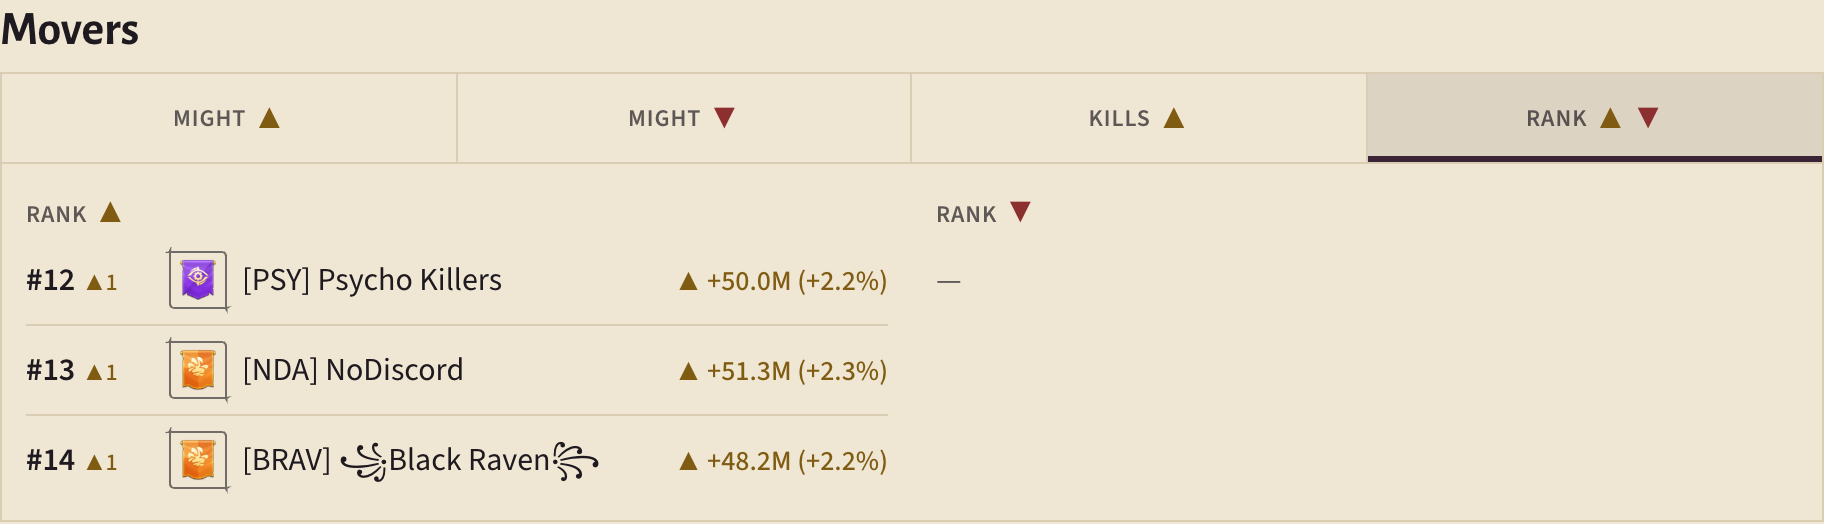
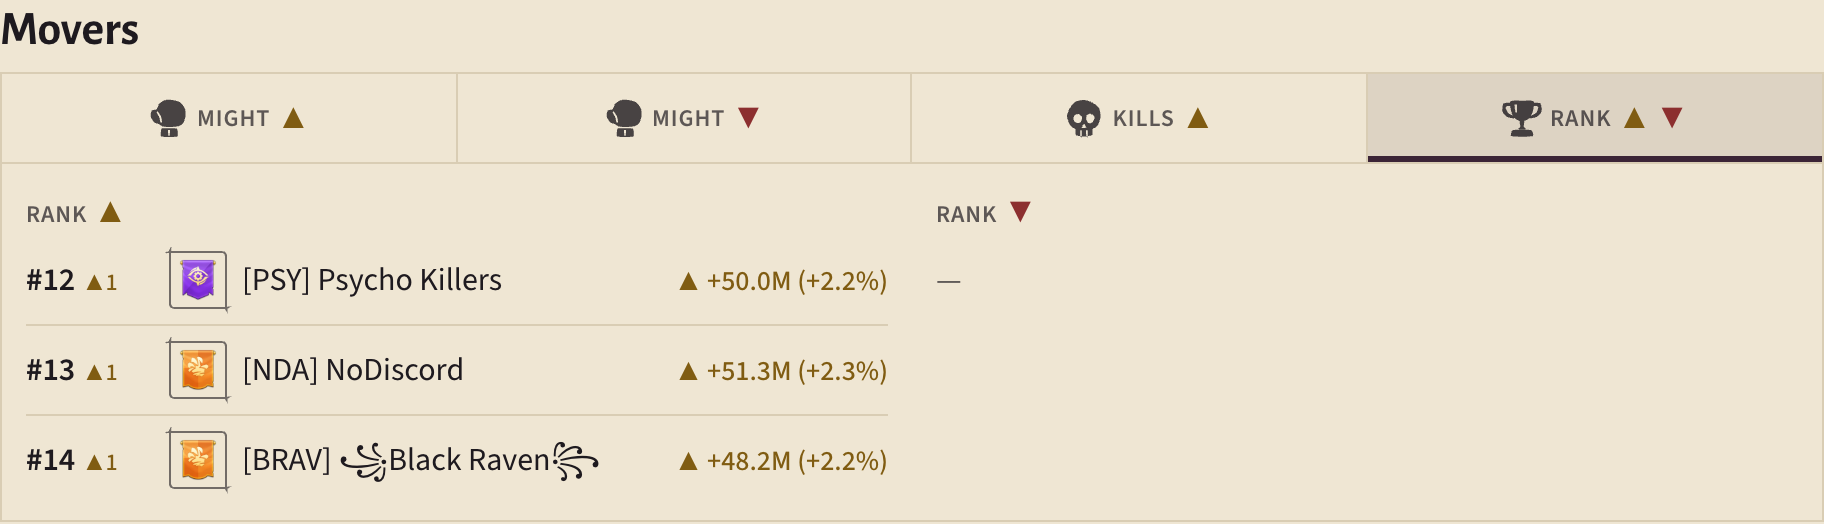
feat(movers): drawn marks on the tabs — boxing glove, skull, trophy (D54)

diff --git a/lib/brand/components/MoverMarks.tsx b/lib/brand/components/MoverMarks.tsx
@@ -1,0 +1,30 @@
+// The Movers tabs' marks (DESIGN.md `movers`, D54): a boxing glove for Might, a skull for Kills, a trophy
+// for Rank. The 16 px filled cut of the brand's hand, drawn by `icon_might`, `icon_kills` and `icon_rank`
+// in docs/brand/drawing/examples/ornaments.py. Colour comes from the parent's text colour.
+
+/** Might: a boxing glove. */
+export function MightMark({ className = "" }: { className?: string }) {
+  return (
+    <svg viewBox="0 0 16 16" className={className} fill="currentColor" aria-hidden="true">
+      <path d="M8.8.7c.9.1 3 .4 3.8.9c.8.5 1.9 1.9 2.2 2.8c.3.9.3 2.5.1 3.4c-.2.9-.7 2.3-1.3 2.8c-.6.5-1.6.8-2.6.9c-1 .1-3.7.1-4.6 0c-.9-.1-1.2-.6-1.8-.9c-.6-.3-1.7-.5-2.2-1c-.5-.5-1.2-1.5-1.3-2.2c-.1-.7.1-2 .4-2.4c.3-.4 1.5-.1 1.9-.4c.4-.3.5-1.5.9-2c.4-.5 1.3-1.2 1.9-1.5c.6-.3 1.7-.5 2.6-.4zm-5.4 5.1c.1.2.9 1.4 1.1 1.8c.2.4.4 2 .5 2.2c.1.2.6 0 .6-.2c0-.2-.2-1.8-.4-2.2c-.2-.4-1.1-1.8-1.3-2c-.2-.2-.6.2-.5.4zm2 6.5c.3-.3 2.5-.2 3-.2c.5 0 2.9-.1 3.2.2c.3.3.5 2.7.2 3c-.3.3-2.8.3-3.4.3c-.5 0-2.9 0-3.2-.3c-.2-.3-.1-2.7.2-3zm2.7 2.7c0 .1.6.1.6 0c0-.1.1-2 .1-2.1c0-.1-.8-.1-.8 0c0 .1.1 2 .1 2.1z" />
+    </svg>
+  );
+}
+
+/** Kills: a skull. */
+export function KillsMark({ className = "" }: { className?: string }) {
+  return (
+    <svg viewBox="0 0 16 16" className={className} fill="currentColor" aria-hidden="true">
+      <path d="M2.2 10.4c-.3-.6-1-2.4-1-3.2c0-.8.7-2.4 1.1-3.1c.5-.8 1.5-2.2 2.2-2.6c.8-.4 2.6-.7 3.5-.7c.9 0 2.5.6 3.2 1c.8.4 2.3 1.4 2.7 2.1c.5.8.7 2.4.7 3.3c0 .9-.5 2.6-.8 3.2c-.3.6-.9 1.1-1.2 1.4c-.3.3-1 .2-1.2.6c-.2.4.3 2-.2 2.4c-.5.4-2.3.6-3.2.6c-.9 0-2.7-.2-3.2-.6c-.5-.4 0-2-.2-2.4c-.2-.4-.9-.3-1.2-.6c-.3-.3-.9-.8-1.2-1.4zm4.8-3.2c-.3-.2-.9-.8-1.4-.8c-.4 0-1.1.2-1.4.6c-.3.4-.6 1.2-.4 1.7c.1.5.7 1 1.1 1.2c.5.2 1.2.2 1.6-.1c.4-.3.6-1.2.7-1.6c.1-.4 0-.7-.2-1zm5 0c-.3-.3-.9-.8-1.4-.9c-.4 0-1.2.2-1.5.6c-.2.4-.3 1.3-.2 1.8c.1.5.6 1.2 1 1.4c.4.1 1.2-.1 1.5-.4c.4-.3.7-1.1.8-1.5c.1-.4 0-.6-.2-1zm-4.9 4.7c.1.1 1.7.1 1.8 0c.1-.1-.8-1.7-.9-1.7c-.1 0-1 1.6-.9 1.7zm-.6 3.7c0 .1.6.1.6 0c0-.1.1-2.5 0-2.6c0-.1-.6-.1-.6 0c-.1.1 0 2.5 0 2.6zm2.4 0c0 .1.6.1.6 0c0-.1.1-2.5 0-2.6c0-.1-.6-.1-.7 0c0 .1.1 2.5.1 2.6z" />
+    </svg>
+  );
+}
+
+/** Rank: a trophy cup. */
+export function RankMark({ className = "" }: { className?: string }) {
+  return (
+    <svg viewBox="0 0 16 16" className={className} fill="currentColor" aria-hidden="true">
+      <path d="M3.4 1.4c.6-.6 3.4-.3 4.6-.3c1.2 0 4-.3 4.6.3c.6.6-.1 3.1-.3 4c-.2.9-.9 2.3-1.5 2.8c-.6.5-2.1 1.2-2.8 1.2c-.7 0-2.2-.7-2.8-1.2c-.6-.5-1.3-1.9-1.5-2.8c-.2-.9-.9-3.4-.3-4zm.3 1.9c-.4.1-1.5-.4-1.9.1c-.5.4-.3.8 0 1.5c.2.7.5 1.1 1.2 1.5c.6.4 1.7.8 2.1 1l-.2.8c-.4-.1-2-.2-2.7-.6c-.6-.4-1.7-1.4-2-2.1c-.2-.7 0-2.8.4-3.3c.5-.4 2.5-.3 2.9-.3zm8.8-1.4c.4 0 2.4-.1 2.9.3c.4.5.6 2.6.4 3.3c-.3.7-1.4 1.7-2 2.1c-.7.4-2.3.5-2.7.6l-.2-.8c.4-.2 1.5-.6 2.1-1c.7-.4 1-.8 1.2-1.5c.3-.7.5-1.1 0-1.5c-.4-.5-1.5 0-1.9-.1zm-5.4 7.1c.2-.3 1.6-.3 1.8 0c.2.3-.3 2.3-.2 2.6c.1.3 1.1.7.9.8c-.2.1-3 .1-3.2 0c-.2-.1.8-.5.9-.8c.1-.3-.4-2.3-.2-2.6zm-2.9 3.9c.4-.2 3.2-.3 3.8-.3c.6 0 3.4.1 3.8.3c.4.2.9 2.1.6 2.3c-.3.2-3.7.3-4.4.3c-.7 0-4.1-.1-4.4-.3c-.3-.2.2-2.1.6-2.3zm1.2-7.1c.1.2.6 0 .6-.2c0-.3.1-2.6 0-2.8c-.1-.2-1-.3-1 0c0 .2.3 2.8.4 3z" />
+    </svg>
+  );
+}

diff --git a/app/_ui/Movers.tsx b/app/_ui/Movers.tsx
@@ -8,6 +8,7 @@
 import Link from "next/link";
 import { useId, useRef, useState, type KeyboardEvent } from "react";
 
+import { KillsMark, MightMark, RankMark } from "@/lib/brand/components/MoverMarks";
 import type { Dictionary } from "@/lib/copy";
 
 import { useCopy } from "./LocaleProvider";
@@ -41,12 +42,27 @@ function Row({ m }: { m: MoverItem }) {
   );
 }
 
-/** `MIGHT ▲`: the word as a label, the arrow in yarn or seal, the direction's word read out. */
-function Head({ word, up, copy }: { word: string; up: boolean | null; copy: Dictionary }) {
+const MARKS = { might: MightMark, kills: KillsMark, rank: RankMark };
+
+/** `MIGHT ▲`: the word as a label, the arrow in yarn or seal, the direction's word read out. With
+ * `mark`, the tab's drawing leads and the word shows from 640 px only (it is still read out below). */
+function Head({
+  word,
+  up,
+  copy,
+  mark,
+}: {
+  word: string;
+  up: boolean | null;
+  copy: Dictionary;
+  mark?: keyof typeof MARKS;
+}) {
   const arrows = up === null ? [true, false] : [up];
+  const Mark = mark && MARKS[mark];
   return (
     <>
-      <span className={LABEL}>{word}</span>
+      {Mark && <Mark className="size-5 shrink-0 text-ink/80" />}
+      <span className={`${LABEL} ${Mark ? "sr-only sm:not-sr-only" : ""}`}>{word}</span>
       {arrows.map((a) => (
         <span key={String(a)}>
           <span aria-hidden="true" className={a ? "text-yarn" : "text-seal"}>
@@ -147,7 +163,7 @@ export function Movers({ scopes }: { scopes: MoverScope[] }) {
               onKeyDown={(e) => onKey(e, i)}
               className="inline-flex min-h-11 flex-wrap items-center justify-center gap-x-1 border-r border-rule px-1 text-center last:border-r-0 aria-selected:bg-plum/10 aria-selected:shadow-[inset_0_-3px_0_var(--color-plum)]"
             >
-              <Head word={copy.ledger[t.word]} up={t.up} copy={copy} />
+              <Head word={copy.ledger[t.word]} up={t.up} copy={copy} mark={t.word} />
             </button>
           ))}
         </div>
@@ -157,6 +173,11 @@ export function Movers({ scopes }: { scopes: MoverScope[] }) {
           aria-labelledby={`${id}-${current?.key}`}
           className="grid gap-x-6 px-3 py-2 sm:grid-cols-2"
         >
+          {current && current.up !== null && (
+            <p className="flex items-baseline gap-1 pt-1 sm:hidden">
+              <Head word={copy.ledger[current.word]} up={current.up} copy={copy} />
+            </p>
+          )}
           {sections.map((s) => (
             <MoverList key={s.key} title={s.title} up={s.up} items={s.items} copy={copy} />
           ))}

diff --git a/docs/brand/drawing/examples/ornaments.py b/docs/brand/drawing/examples/ornaments.py
@@ -199,6 +199,41 @@ def icon_overseer():
         stroke(p, [(x0, 5.0), ((x0 + x1) / 2, 3.6), (x1, y1)], .38, a=.2, b=.45, e=.12)
     return svg("0 0 16 16", el(p))
 
+# The Movers tabs (DESIGN.md movers): the same 16 px filled cut, one per figure.
+def icon_might():
+    """Might: a boxing glove, the round mitt over a thumb at the left, a cuff below with a lace."""
+    p = Path()
+    blob(p, [(8.8, 0.7), (12.6, 1.6), (14.8, 4.4), (14.9, 7.8), (13.6, 10.6), (11.0, 11.5), (6.4, 11.5),
+             (4.6, 10.6), (2.4, 9.6), (1.1, 7.4), (1.5, 5.0), (3.4, 4.6), (4.3, 2.6), (6.2, 1.1)], k=.85)
+    hole(p, [(3.9, 5.4), (5.2, 7.4), (5.6, 9.6), (5.0, 9.8), (4.5, 7.6), (3.4, 5.8)], k=.6)
+    blob(p, [(5.4, 12.3), (8.4, 12.1), (11.6, 12.3), (11.8, 15.3), (8.4, 15.6), (5.2, 15.3)], k=.5)
+    hole(p, [(8.0, 12.9), (8.8, 12.9), (8.7, 15.0), (8.1, 15.0)], k=.4)
+    return svg("0 0 16 16", el(p))
+
+def icon_kills():
+    """Kills: a skull, round cranium over a narrower jaw, two eyes, a nose and two tooth gaps."""
+    p = Path()
+    blob(p, arc(8, 7.2, 6.7, 6.4, 150, 390, 9, wob=[0, .02, -.02, .03, 0, -.03, .02, -.01, 0])
+         + [(12.6, 11.8), (11.4, 12.4), (11.2, 14.8), (8, 15.4), (4.8, 14.8), (4.6, 12.4), (3.4, 11.8)], k=.8)
+    hole(p, arc(5.5, 8.2, 1.7, 1.9, 0, 330, 7, wob=[0, .05, -.04, .06, 0, -.05, 0]))
+    hole(p, arc(10.5, 8.2, 1.7, 1.9, 0, 330, 7, wob=[0, -.04, .05, -.03, .04, 0, 0]))
+    hole(p, [(8, 10.2), (8.9, 11.9), (7.1, 11.9)], k=.4)
+    for x in (6.8, 9.2):
+        hole(p, [(x - .35, 13.0), (x + .35, 13.0), (x + .3, 15.6), (x - .3, 15.6)], k=.3)
+    return svg("0 0 16 16", el(p))
+
+def icon_rank():
+    """Rank: a trophy cup with two handles, a short stem and a stepped base."""
+    p = Path()
+    blob(p, [(3.4, 1.4), (8, 1.1), (12.6, 1.4), (12.3, 5.4), (10.8, 8.2), (8, 9.4), (5.2, 8.2), (3.7, 5.4)], k=.8)
+    for s in (1, -1):
+        X = lambda x: 8 + (x - 8) * s
+        stroke(p, [(X(3.6), 2.6), (X(1.2), 2.8), (X(1.0), 5.2), (X(2.6), 7.0), (X(5.0), 7.8)], ws=[.75, .8, .8, .7, .45])
+    blob(p, [(7.1, 9.0), (8.9, 9.0), (8.7, 11.6), (9.6, 12.4), (6.4, 12.4), (7.3, 11.6)], k=.6)
+    blob(p, [(4.2, 12.9), (8, 12.6), (11.8, 12.9), (12.4, 15.2), (8, 15.5), (3.6, 15.2)], k=.5)
+    hole(p, [(5.0, 2.8), (6.0, 2.8), (6.0, 5.6), (5.4, 5.8)], k=.5)
+    return svg("0 0 16 16", el(p))
+
 def icon_live():
     """The /admin live mark: grandma's chamberstick, lit (small cut, 16-20 px). The flame and its glow
     ticks are two paths so CSS can sway the flame (pivot at the wick, 8 7.4) and flicker the ticks while a run

diff --git a/docs/brand/drawing/build.py b/docs/brand/drawing/build.py
@@ -41,6 +41,9 @@ DRAWINGS = {
     "icon-recruiter": ornaments.icon_recruiter,
     "icon-militarist": ornaments.icon_militarist,
     "icon-overseer": ornaments.icon_overseer,
+    "icon-might": ornaments.icon_might,
+    "icon-kills": ornaments.icon_kills,
+    "icon-rank": ornaments.icon_rank,
     "icon-live": ornaments.icon_live,
     "icon-done": ornaments.icon_done,
     "icon-partial": ornaments.icon_partial,

diff --git a/docs/DESIGN.md b/docs/DESIGN.md
@@ -188,7 +188,7 @@ Members of a game alliance on server 325 — Russia, Spain, Brazil, the United S
 - **Sentences only in the margins.** The grandma voice lives in empty states, error pages, section titles and the admin area. Status is chips, not prose: `Last updated at Oct 31, 14:01 server` and `Next update at …` (owner, 2026-11-05: these replace the earlier `Before ✓ 12:01` · `After ✓ 16:01` chips). A public page has no paragraph.
 - **`/brand` is exempt from the paragraph rule** (07c N7, #54): it is the brand guidelines for whoever builds the site, `noindex` and linked from nowhere, so its rules and "when to use" lines are sentences. Its strings still live in `lib/copy-brand.ts`, and its React keys never come from copy.
 - **Dates and numbers through `Intl`** with the request's `Accept-Language`: `16:01` not `4:01 PM`, `3,94 bi` for pt-BR, `3.94B` for en (the compact suffix is the locale's own). Every public time is server time and says so (`16:01 server time`) unless the viewer chose their own zone in the settings gear; then it reads `16:01 your time`, and a table corner reads `Your time` (D38). No UTC twin (owner, 2026-11-05). Dates follow the locale unless the viewer chose an order (`31 Oct`, `Oct 31`, `31/10`, `31.10`, `2026-10-31`); the month name stays in the locale's language. /admin and Discord always use server time. Relative times (`4 days ago`) are secondary.
-- **Universal symbols where they are truly universal**: ▲ ▼ for change, an outlined dot for stale, a magnifier for search, ✓ ✗ for done/failed. No icons that need a culture to read (no thumbs, no wink, no skull for kills — "Kills" is already the game's word).
+- **Universal symbols where they are truly universal**: ▲ ▼ for change, an outlined dot for stale, a magnifier for search, ✓ ✗ for done/failed. No icons that need a culture to read (no thumbs, no wink, no skull for kills — "Kills" is already the game's word). One exception (owner, 2026-11-06, D54): the Movers tabs, four to a 360 px row, lead with a drawn mark — boxing glove for Might, skull for Kills, trophy for Rank — and show the word beside it from 640 px; on a phone the open tab's word heads its panel, and every tab's word is read out.
 - **Every string in `lib/copy.ts`**, none in components, so translation later is a file, not a refactor. Keys are stable identifiers; the value is the English text.
 - **The ledger is for the whole server, not for OGs.** Other alliances in the top 10 will use it, so nothing is pinned: order is strictly by rank, and rank numbers (`#1 … #20`) are shown because they are language-free. A viewer may pick _their_ alliance once (tap the tag → "This is my alliance"); it is highlighted and gets a "jump to" control, remembered in `localStorage` for that browser only — a per-viewer convenience, never server state, and the page is correct without it.
 
@@ -314,7 +314,7 @@ The whole list. Anything else is a composition of these; a new one needs a line 
 - **`member-filter`** — the alliance page's member controls (`app/_ui/MembersExplorer.tsx`, rules in `app/_ui/member-views.ts`; Session 7f): a name search; sort chips `Might · ± Might · Kills · ± Kills · Level · A–Z` (tap a chip to sort by it, highest first; tap it again to flip; the active chip is plum-filled with `↓`/`↑`; one scrolling row below 640 px); one might range with two thumbs whose stops are the roster's own values (`.range-pair` in `app/globals.css`), its span shown above it; and a framed `✕` chip per active filter that clears it, plus "Clear all". The list shows the first 20 members in the current order and a "Show all (n)" button. The count line reads `Members 97 / 100`: members in the alliance now over the capacity the API reports (`alliance_snapshots.capacity`; without one, only the count), plus ` · 12 shown` only while a name or might filter is on. While only one roster exists (the After has not run, or failed) the list is that roster: no Joined / Left, no change line under the figures, no `±` sort chips, rank without a movement mark (`StatMetric.noChange`, `Rank` without `move`).
 - **`breadcrumbs`** — alliance and player pages only: `Ledger · Sat, Oct 31 › [TAG] Name › Player` (`app/_ui/Breadcrumbs.tsx`); each crumb ≥ 44 px tall.
 - **`leadership`** — the alliance page's Leadership section (`app/_ui/Leadership.tsx`, owner 2026-11-05), between the summary band and the member list: the R5 leader first, then each R4 officer that carries a title (by Might, highest first), as cards in two centered rows: the leader on top, the officers below. One column on a phone; from 640 px the leader card is centered on its own row (one officer wide) and the officers sit 2×2 below; from 1024 px the leader card (a third of the row) is centered on top and all officers share one row below. Fewer than four officers are centered in their row; with no leader only the officer row shows; a second R5 sits beside the leader on the top row. The DOM order is the reading order (leader, then officers). Might, Kills and Level take equal thirds of the card and wrap to a second line instead of shrinking when a card is too narrow for them. A card is one link to the player page (≥ 44 px): photo, name, the role (`Leader`, or the title exactly as the game gives it, read from `rank_label` after `R4 · `), then Might, Kills and Level for the event (the After's, or the Before's for someone who left, who also carries the seal `− Left`). R4s without a title are not listed. With no R5 and no titled R4 on record (old rows, internal source) the section is omitted. The member list below is unchanged: same order, ranks and `n / capacity`. Ranks come from `alliance_snapshots.raw_json` through `lib/queries/leadership.ts`, which selects only uid, `rank_code`, `rank_label`.
-- **`movers`** — the event's biggest gains and losses (`app/_ui/Movers.tsx`, lists from `app/_ui/mover-lists.ts`, ranked by `compute.topMovers`; issue #70, D53). One framed card titled "Movers": a row of segmented tabs, `Might ▲`, `Might ▼`, `Kills ▲` and `Rank ▲▼` (the game's word, the arrow in yarn or seal, the direction's word read out; 44 px, arrow keys move between them; a long word wraps inside its tab), then the active tab's lists. The Rank tab (alliances only, so not on the alliance page) lists the top 3 climbers and fallers by ledger rank by might, Before → After (`compute.topRankMovers`): most places moved first, then the better current rank. Each line is a 44 px link: for an alliance its `rank` (`#4 ▼3`, the ledger rank by might after the event and its move, `#—` / `—` when unknown, as on the comparison table), for a member its place in the list (`#2`); the alliance badge (alliances only), the name (`[TAG] Name`, or a member's name with their alliance tag after it in ink/70), and the change with arrow and percent, which wraps under the name when the line is too narrow. Main page: under the ledger, alliances (top 3) and members (top 5, across every tracked alliance) side by side from 640 px, stacked below. Alliance page: between `leadership` and the member list, that alliance's members only (top 5), no sub-heading. A falling alliance total whose members left carries the `member-mark`. An empty list reads `—`: nobody moved that way, or a side is missing. Ties share a rank. No sentences, no chart.
+- **`movers`** — the event's biggest gains and losses (`app/_ui/Movers.tsx`, lists from `app/_ui/mover-lists.ts`, ranked by `compute.topMovers`; issue #70, D53). One framed card titled "Movers": a row of segmented tabs, `Might ▲`, `Might ▼`, `Kills ▲` and `Rank ▲▼`: each leads with its drawn mark (`lib/brand/components/MoverMarks.tsx`: boxing glove, skull, trophy; 16 px filled cut, ink/80) and the arrow in yarn or seal; the game's word shows beside the mark from 640 px and is read out below it, and on a phone the open tab's `WORD ▲` heads its panel (D54); 44 px, arrow keys move between them, then the active tab's lists. The Rank tab (alliances only, so not on the alliance page) lists the top 3 climbers and fallers by ledger rank by might, Before → After (`compute.topRankMovers`): most places moved first, then the better current rank. Each line is a 44 px link: for an alliance its `rank` (`#4 ▼3`, the ledger rank by might after the event and its move, `#—` / `—` when unknown, as on the comparison table), for a member its place in the list (`#2`); the alliance badge (alliances only), the name (`[TAG] Name`, or a member's name with their alliance tag after it in ink/70), and the change with arrow and percent, which wraps under the name when the line is too narrow. Main page: under the ledger, alliances (top 3) and members (top 5, across every tracked alliance) side by side from 640 px, stacked below. Alliance page: between `leadership` and the member list, that alliance's members only (top 5), no sub-heading. A falling alliance total whose members left carries the `member-mark`. An empty list reads `—`: nobody moved that way, or a side is missing. Ties share a rank. No sentences, no chart.
 - **`role-mark`** — alliance roles as one drawn mark in a tone (`lib/brand/components/RoleMark.tsx`; drawings `icon_crown`, `icon_officer`, `icon_diplomat`, `icon_recruiter`, `icon_militarist`, `icon_overseer` in `docs/brand/drawing/examples/ornaments.py`, 16 px filled cuts): the **crown** for the R5 leader in plum; a titled R4 officer in sage (the neutral tone) gets the drawing of the title's slot, picked from the title text with case and spacing ignored (DECISIONS D50): **dove** for Diplomat, **horn** for Recruiter, **crossed swords** for Militarist or God of War, **eye** for Overseer or Goddess; any other title gets the **stitch star**. All officers share the one sage tone: the shape says which title, the colour only says "officer". In the member list the mark follows the name, the row takes the same colour as a pale tint (`bg-plum/10`, `bg-sage/10`), and the role's word is read out (`sr-only`); nothing else about the row changes. On the player page the **profile variant** sits under the alliance link: mark plus the word (`Leader` or the title), taken from the player's latest sighting through the same query; R1–R4 without a title show nothing, and neither does a player without rank data. The "Across events" rows carry no role.
 - **`my-alliance`** — "My alliance": a framed checkbox beside "Exact numbers" at the right of the alliance page's title row (Session 7f), and on the main page a jump link to that row, which is tinted yarn (`app/_ui/MyAlliance.tsx`, `localStorage` only).
 - **`alliance-badge`** — the alliance's own emblem (one of the game's ten presets, served by `/img/badge/[id]`) at 28 px beside the tag on rows and cards, 40 px beside the alliance page title. Without one: the drawn crocheted banner (`NoBadge`). `AllianceBadge` in `app/_ui/Pictures.tsx` (owner, 2026-11-05; DECISIONS D22).

diff --git a/docs/handoff/08zzf-movers-rank.md b/docs/handoff/08zzf-movers-rank.md
@@ -4,13 +4,13 @@
 - `compute.topRankMovers(rows, n, direction)` in `lib/compute.ts`: the alliances that climbed (`gain`) or fell (`loss`) the most places by ledger rank by might, Before → After (`compute.rankDelta`, D23). Order: places moved, then the better current rank. A row with a missing, stale or failed side, an unknown rank, or no move is left out. Three tests: climbers with a tie, fallers without the held row, excluded sides.
 - `allianceMovers` (`lib/queries/movers.ts`) takes the event's ledger ranks (`eventRanks`, already loaded by `getEventPage`) and returns `rankUp` / `rankDown` (top 3 each) beside the three lists; each alliance row carries `ledger: { before, after }`.
 - Movers card: a fourth tab, `Rank ▲▼`, listing `Rank ▲` and `Rank ▼` (side by side from 640 px). Every alliance row in every tab now starts with its ledger rank after the event and its move, `#4 ▼3`, with `#—` / `—` when unknown, using the comparison table's `Rank` component. Member rows keep their place in the list (`#2`). The tab row sizes itself to the tabs it shows.
-- DESIGN.md `movers` updated; /brand sample rows carry a rank move.
+- DESIGN.md `movers` and the language-light symbols rule updated; D54 in DECISIONS.md; /brand sample rows carry a rank move and show the marks.
 
 ## Decisions
 - The tab label reuses `ledger.rank` ("Rank"), already translated in all 17 languages, so no new copy and no translate-copy run were needed; `i18n-check` is green.
 - Members get no Rank list: an in-alliance rank by might per side is not stored or computed anywhere today, so it would be new work, not a reuse. The alliance page shows no Rank tab.
 - The Rank rows show the alliance's might change on the right, like the other tabs.
-- Icons instead of words on the tabs (owner's suggestion in the chat) were not done: DESIGN.md's language-light rules use the game's word as the label and rule out a skull for Kills. In en all four tabs fit one line at 360 px; in ru and de a long word wraps to a second line inside its 44 px tab.
+- Tab icons (D54, the owner's request in chat): the four tabs lead with a drawn mark — boxing glove (Might; a flexed arm was tried first and read as a sock at 16 px), skull (Kills), trophy (Rank) — in `lib/brand/components/MoverMarks.tsx`, drawn by `icon_might` / `icon_kills` / `icon_rank` in `docs/brand/drawing/examples/ornaments.py` (registered in `build.py`). Below 640 px a tab shows mark + arrow (word read out) and the open tab's `WORD ▲` heads its panel; from 640 px the word shows beside the mark. DESIGN.md's no-culture-icon rule gets this one exception.
 
 ## Deviations
 - None.
@@ -18,7 +18,7 @@
 ## Verified
 - `pnpm check` green (prettier, eslint, tsc, vitest incl. `lib/queries/blocked-keys.test.ts`, drift, i18n-check).
 - Local `next dev` against the Neon preview branch, read-only. The preview's newest event (id 3) has no rank moves (both Rank lists read `—`); event 1 has three climbers, so the screenshots use `/events/1`.
-- Screenshots `docs/screenshots/08zzf-movers-rank-*.png`: the Rank tab (`tab3`) and the Might ▼ tab (`tab1`) at 360 and 1280 px, light and dark; ru Rank tab and de default tab at 360 px; the alliance page at 360 px (no Rank tab).
+- Screenshots `docs/screenshots/08zzf-movers-rank-*.png`: the Rank tab (`tab3`) and the Might ▼ tab (`tab1`) at 360 and 1280 px, light and dark; ru Rank tab (all four tabs on one row) and de default tab at 360 px; the alliance page at 360 px (no Rank tab).
 
 ## Open issues
 - Members' in-alliance rank movement, if the owner wants it, needs an in-alliance rank per snapshot (a `rankBy` over each roster) and a Rank tab on the alliance page.

diff --git a/docs/DECISIONS.md b/docs/DECISIONS.md
@@ -463,3 +463,11 @@ The owner held two points of #70 until the first Saturday's data and on 2026-11-
 - **One ranking.** `compute.topMovers(rows, metric, n, direction)` ranks the page's lists (`lib/queries/movers.ts`) and the Discord message's top gains (`lib/notify.ts`), so the two agree. A change of zero or of the other sign is not a mover. Equal changes keep the input order (alliances by union id, members by uid) and share a competition rank (1, 1, 3).
 - **Sizes and keys** (owner, 2026-11-05): alliances top 3 per list, members top 5; members keyed by `uid` across every tracked alliance, a switcher counted under the After alliance.
 - **Layout.** Segmented tabs (`Might ▲`, `Might ▼`, `Kills ▲`) in one card, picked by the owner from four variants on 2026-11-06. It sits under the ledger on the event page (amends DESIGN.md Navigation's "nothing else after the ledger") and between Leadership and the member list on the alliance page.
+
+## D54 — Movers tabs lead with drawn marks (2026-11-06, owner, 08zzf, issue #70)
+
+Amends DESIGN.md's language-light rule "no icons that need a culture to read (no skull for kills)" for one place. With the Rank tab the Movers card has four tabs, and at 360 px the game's words wrapped to a second line in ru and de. The owner asked for icons instead.
+
+- **Marks.** A boxing glove for Might, a skull for Kills, a trophy for Rank: the brand's 16 px filled cut (`icon_might`, `icon_kills`, `icon_rank` in `docs/brand/drawing/examples/ornaments.py`; `lib/brand/components/MoverMarks.tsx`). A flexed arm was tried first and read as a sock at 16 px.
+- **The word stays.** Below 640 px a tab shows its mark and arrow, with the word as screen-reader text; the open tab's `WORD ▲` heads its panel, so the word is one tap away. From 640 px the word shows beside the mark. Section headings, legend and every other label keep the game's word.
+- **Only here.** Every other place still follows the no-culture-icon rule.
